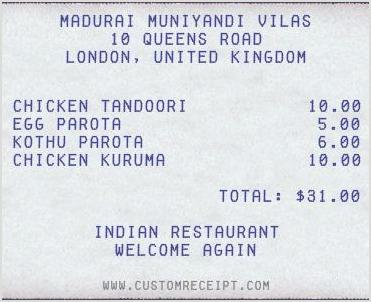
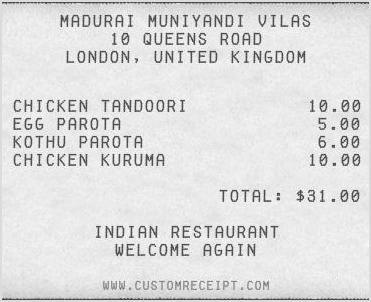
T

diff --git a/test.py b/test.py
@@ -1,5 +1,6 @@
-from PIL import Image
+from PIL import Image,ImageEnhance
 im = Image.open("uploads/test07.jpg")
-im = im.convert('1')
+enhancer = ImageEnhance.Color(im)
+im = enhancer.enhance(0.0)
 im.save("uploads/test08.jpg")
 
